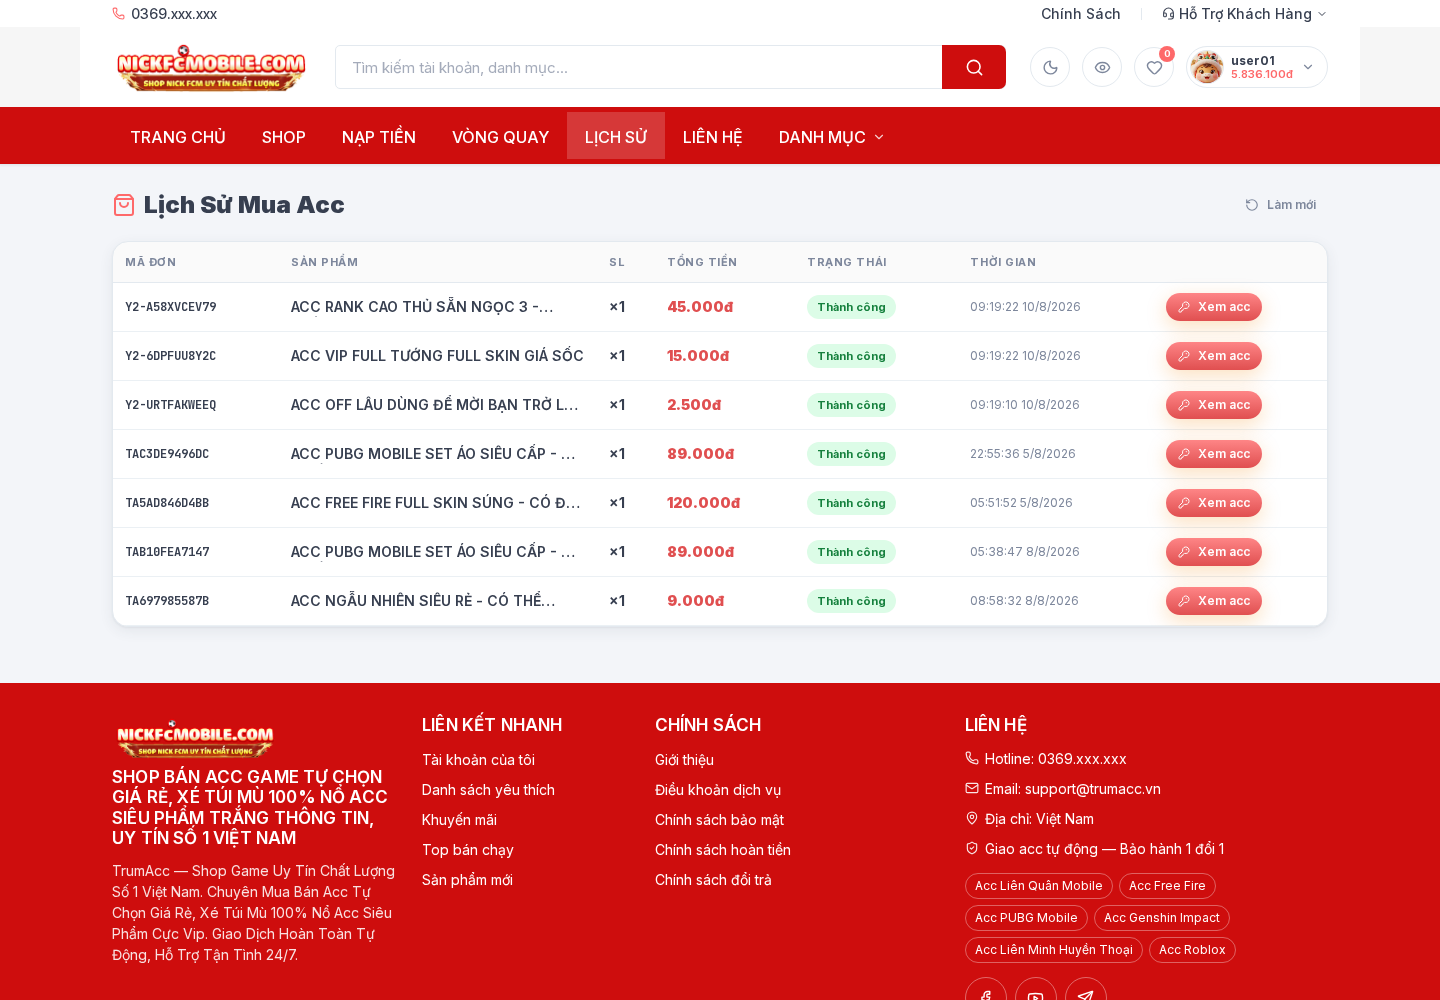
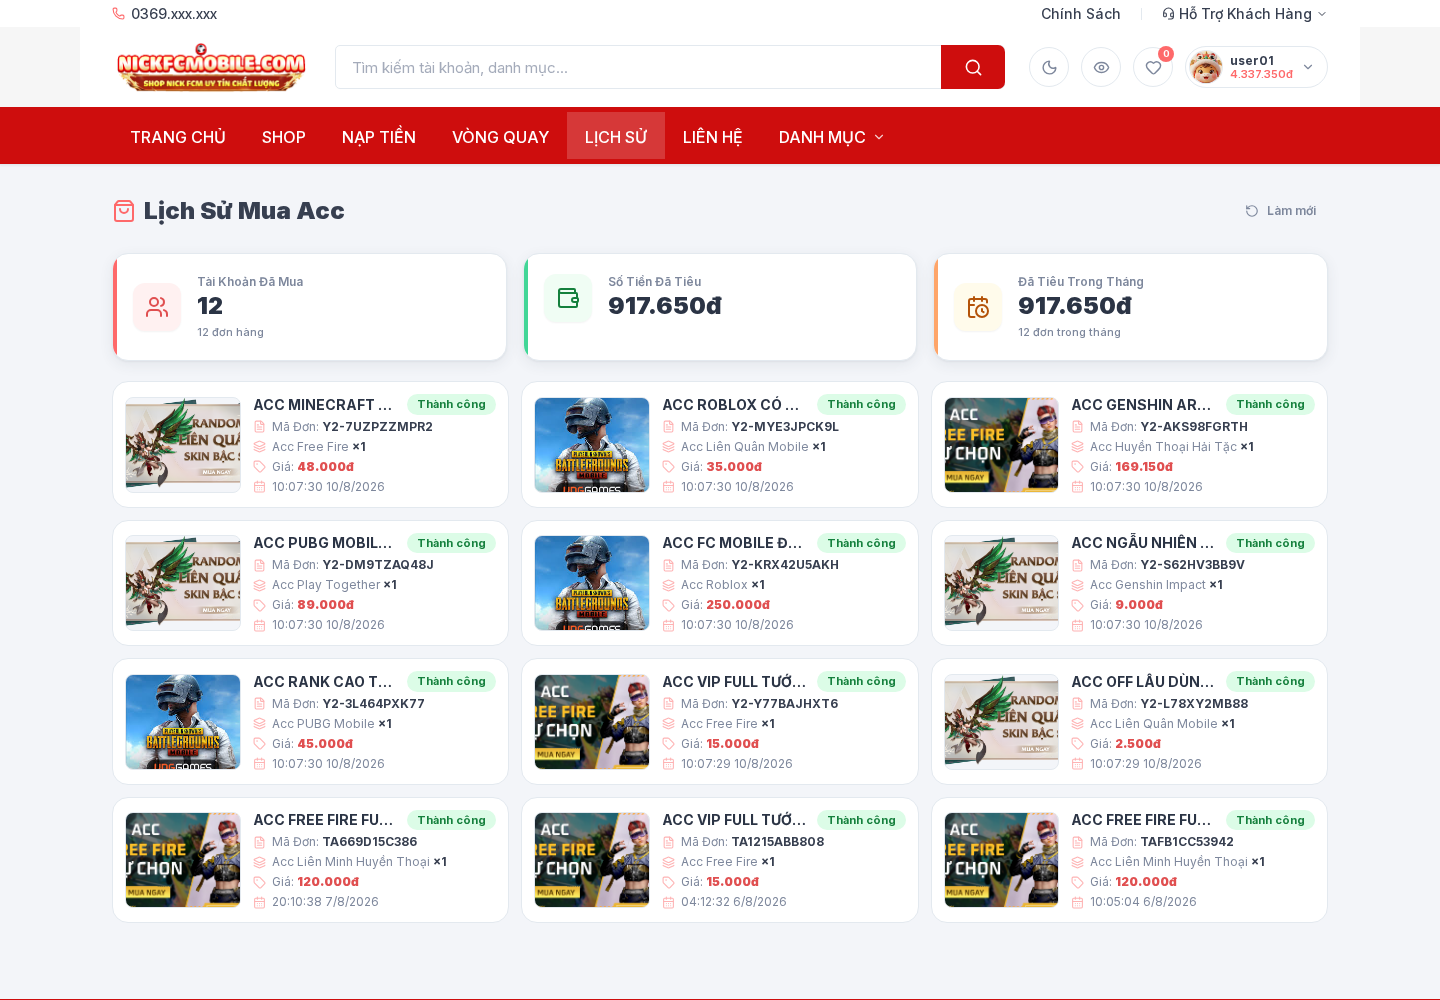
M4 w11: chup lai trang Lich su mua acc theo layout shopaccgame
- Thay M4-w11-desktop-lich-su-mua-acc.png (giu nguyen ten file):
  3 the thong ke + luoi the don hang 3 cot, co anh san pham.
- Them M4-w11b-mobile-lich-su-mua-acc.png (390px, 1 cot)
  va M4-w11c-desktop-lich-su-mua-acc-DARK.png (dark mode).
- Cap nhat README bang kich thuoc.

Quet secret: 11/11 mau = 0.

diff --git a/taskM4/README.md b/taskM4/README.md
@@ -35,7 +35,9 @@ transaction, sổ cái).
 | `M4-w8-desktop-so-cai-cuon-xuong.png` | 175.552 | Sổ cái cuộn xuống (thấy thêm các dòng phía dưới) |
 | `M4-w9-desktop-so-cai-DARK.png` | 169.185 | Sổ cái **DARK MODE** — nền tối thật, chữ/badge/màu tiền vẫn rõ |
 | `M4-w10-desktop-the-cao-DARK.png` | 207.789 | Form nạp thẻ cào **DARK MODE** |
-| `M4-w11-desktop-lich-su-mua-acc.png` | 214.844 | Lịch sử mua acc (đơn hàng) |
+| `M4-w11-desktop-lich-su-mua-acc.png` | 397.766 | Lịch sử mua acc — layout mới kiểu shopaccgame (3 thẻ thống kê + lưới thẻ đơn hàng 3 cột) |
+| `M4-w11b-mobile-lich-su-mua-acc.png` | 93.157 | Lịch sử mua acc — bản mobile 390px (1 cột) |
+| `M4-w11c-desktop-lich-su-mua-acc-DARK.png` | 399.151 | Lịch sử mua acc — dark mode (token `--c-*`, không dùng `dark:`) |
 
 ## 2) Ví người dùng — mobile 390px (6 ảnh)
 
